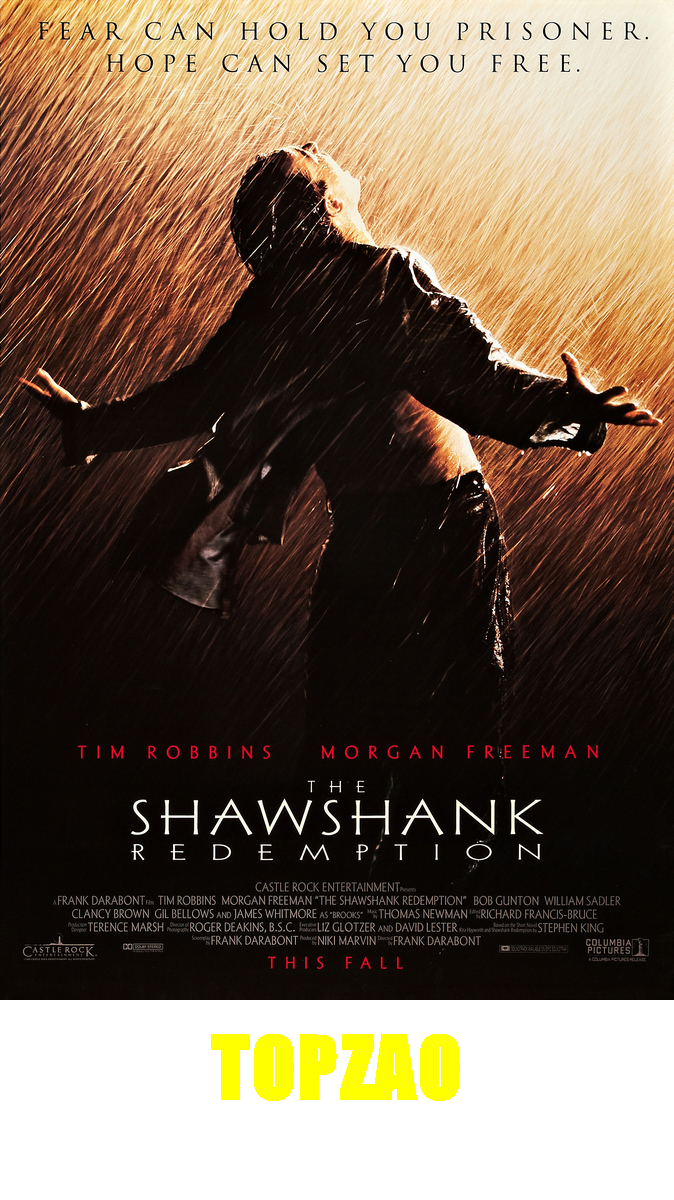
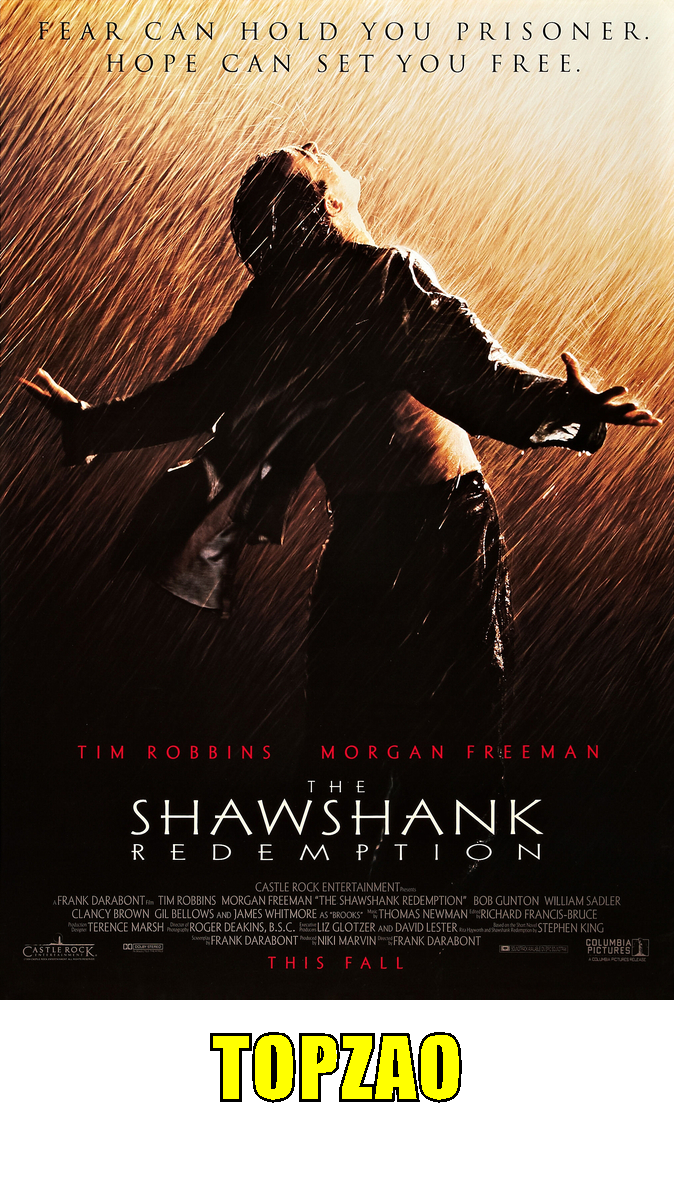
Adicionando contorno na frase

Changed region(s): [[0.3116, 0.8633, 0.6855, 0.925]]

diff --git a/src/ferna_stickers/GeradorDeFigurinhas.java b/src/ferna_stickers/GeradorDeFigurinhas.java
@@ -1,9 +1,14 @@
 package ferna_stickers;
 
+import java.awt.BasicStroke;
 import java.awt.Color;
 import java.awt.Font;
 import java.awt.FontMetrics;
 import java.awt.Graphics2D;
+import java.awt.Shape;
+import java.awt.font.FontRenderContext;
+import java.awt.font.TextLayout;
+import java.awt.geom.AffineTransform;
 import java.awt.geom.Rectangle2D;
 import java.awt.image.BufferedImage;
 import java.io.File;
@@ -47,8 +52,23 @@ public class GeradorDeFigurinhas {
 		Rectangle2D retangulo = fontMetrics.getStringBounds(texto, graphics);
 		int larguraTexto = (int) retangulo.getWidth();
 		int posicaoTextoX = (largura - larguraTexto)/2; // 4 linhas para centralizar o texto
+		int posicaoTextoY = novaAltura - 100;
+		graphics.drawString(texto, posicaoTextoX, posicaoTextoY); // escrever o texto
 		
-		graphics.drawString(texto, posicaoTextoX, novaAltura - 100); // escrever o texto
+		FontRenderContext fontRenderContext = graphics.getFontRenderContext();
+		var textLayout = new TextLayout(texto, fonte, fontRenderContext);
+		
+		Shape outline = textLayout.getOutline(null);
+		AffineTransform transform = graphics.getTransform();
+		transform.translate(posicaoTextoX, posicaoTextoY);
+		graphics.setTransform(transform);
+		
+		var outlineStroke = new BasicStroke(largura * 0.004f);
+		graphics.setStroke(outlineStroke);
+		
+		graphics.setColor(Color.black);
+		graphics.draw(outline);
+		graphics.setClip(outline); // 11 linhas para o contorno da palavra
 		
 		// escrever a nova imagem em um arquivo
 		
